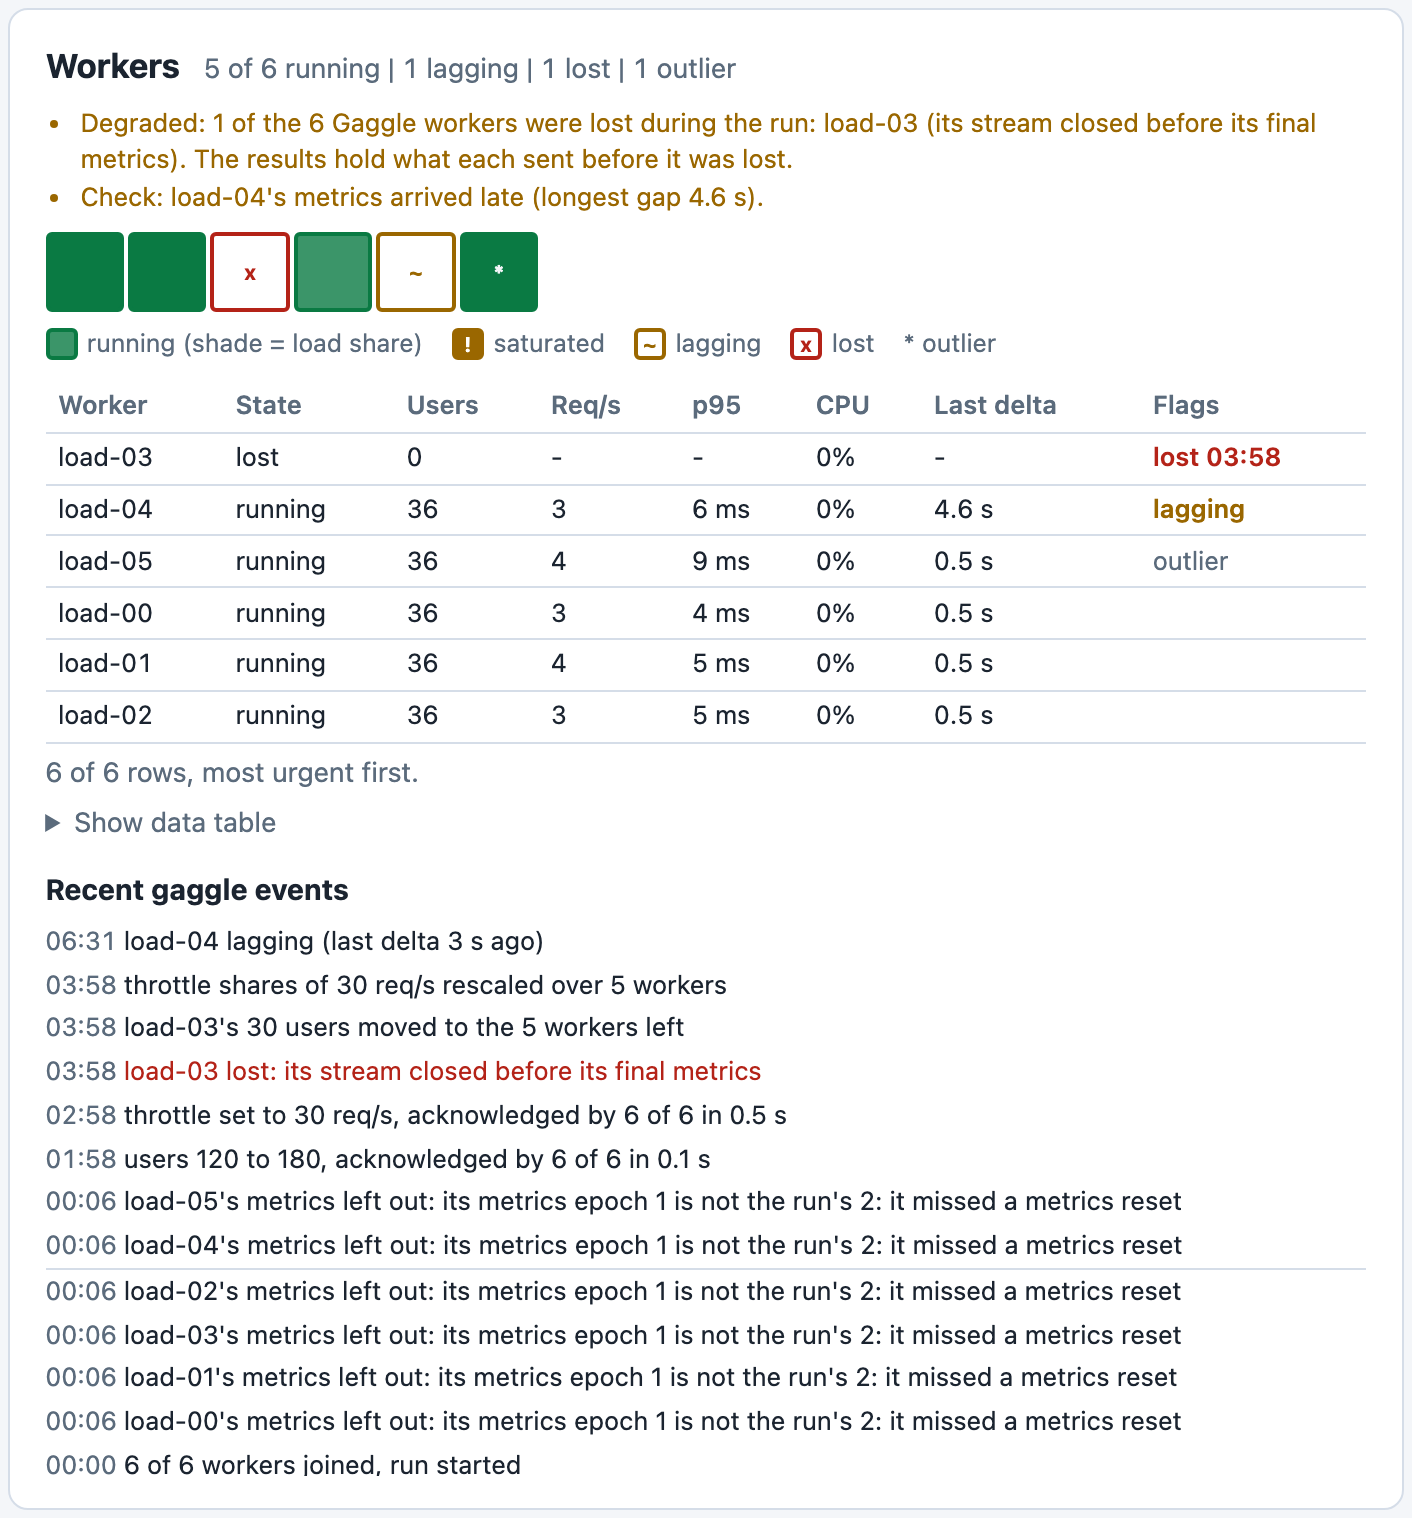
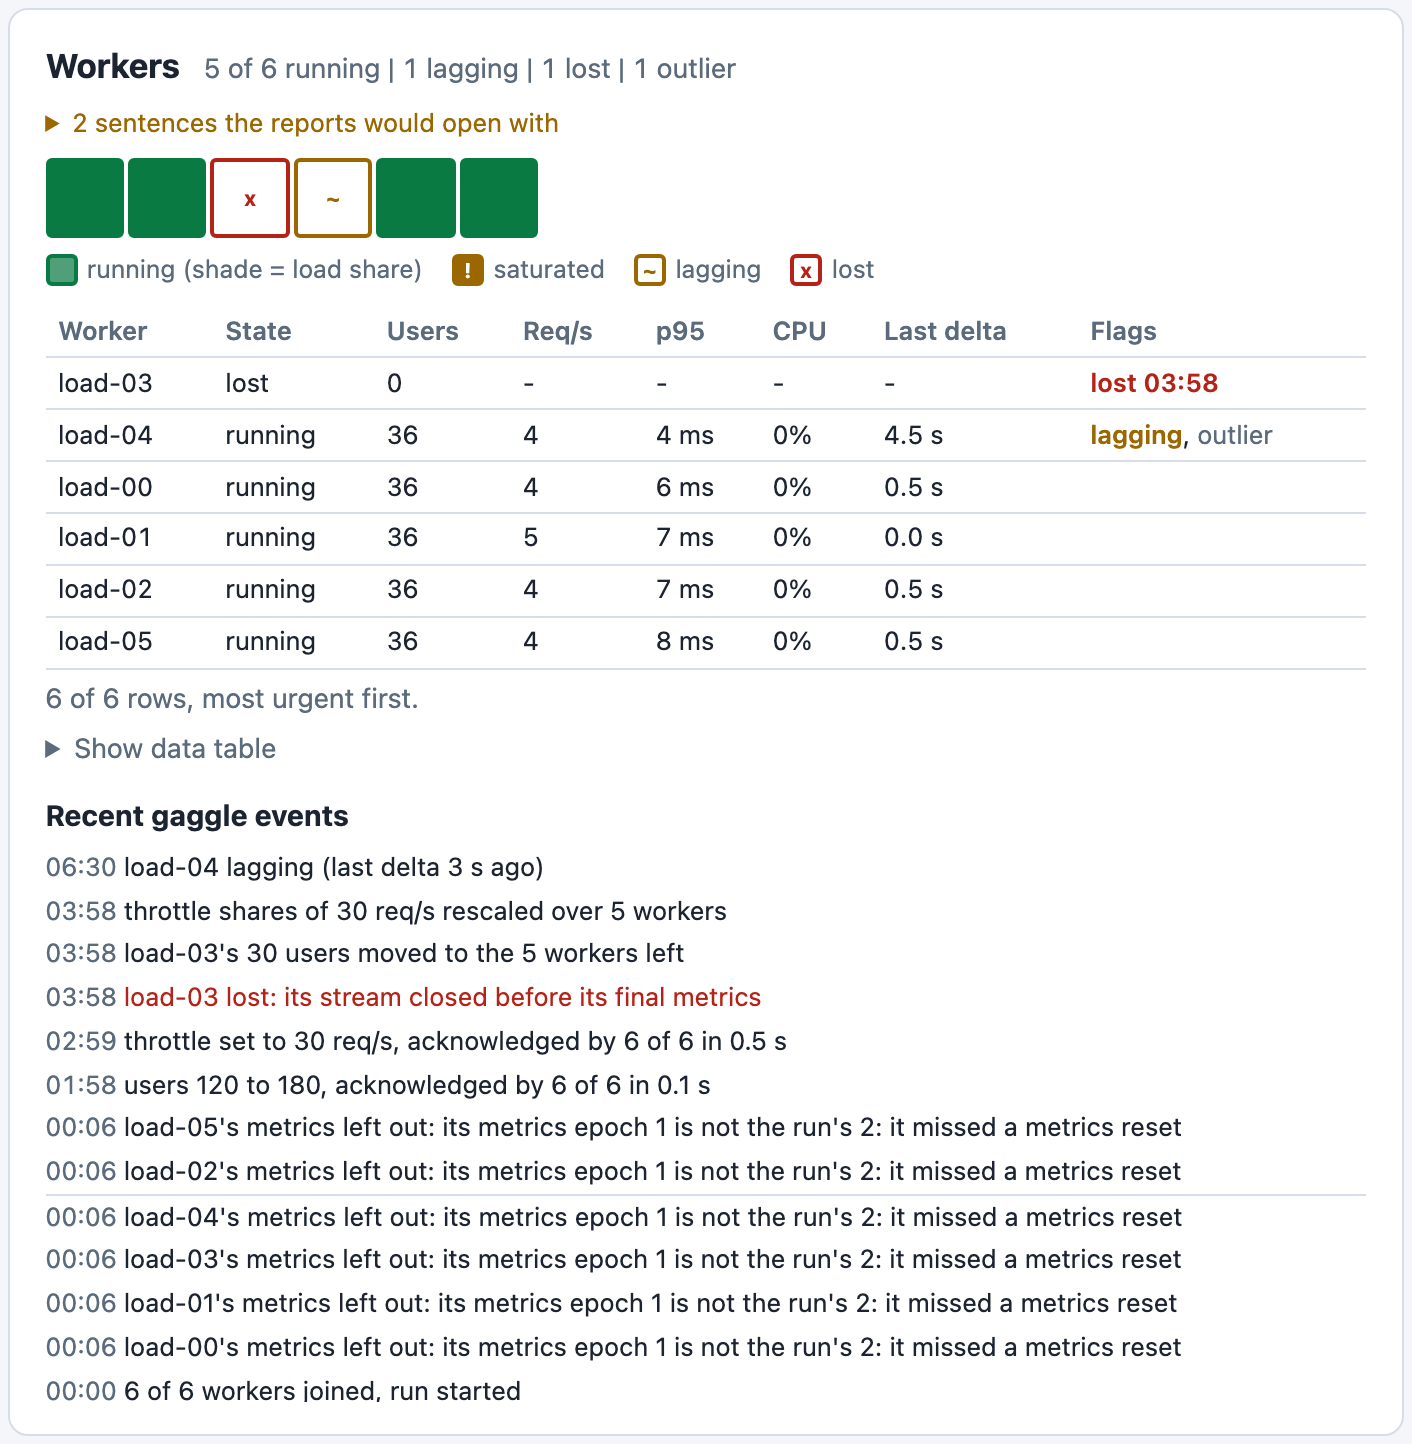
dashboard: a lost worker's event takes its second's marker label

Changed region(s): [[0.0312, 0.0312, 0.9348, 0.9661], [0.7479, 0.2181, 0.9348, 0.374]]

diff --git a/src/dashboard/static/snapshot.d.ts b/src/dashboard/static/snapshot.d.ts
@@ -104,8 +104,9 @@ seconds: Array<number>,
 kinds: Array<string>,
 /**
  * A few words for the chart's marker, `users 900` or `load-31 lost`,
- * for the newest event of each second within the series window, which
- * the chart draws; `null` for the rest, whose label would overlap it.
+ * for one event of each second within the series window, which the
+ * chart draws: a lost worker's, else the newest; `null` for the rest,
+ * whose label would overlap it.
  */
 labels: Array<string | null>,
 /**

diff --git a/src/gaggle/dashboard.rs b/src/gaggle/dashboard.rs
@@ -535,6 +535,21 @@ pub(crate) fn section(
         })
         .copied()
         .collect();
+    // One label a second, as labels in one second overlap: a lost worker's
+    // event, else the newest.
+    let mut chosen: BTreeMap<u64, usize> = BTreeMap::new();
+    for (at, event) in newest.iter().enumerate() {
+        let lost = event.kind == GaggleEventKind::WorkerLost;
+        match chosen.get(&event.second) {
+            None => {
+                chosen.insert(event.second, at);
+            }
+            Some(&held) if lost && newest[held].kind != GaggleEventKind::WorkerLost => {
+                chosen.insert(event.second, at);
+            }
+            Some(_) => {}
+        }
+    }
     let shown = GaggleEvents {
         seconds: newest.iter().map(|event| event.second).collect(),
         kinds: newest.iter().map(|event| kind_name(event.kind)).collect(),
@@ -542,9 +557,8 @@ pub(crate) fn section(
             .iter()
             .enumerate()
             .map(|(at, event)| {
-                // Newest first: only the first event of its second is labelled.
-                let first = at == 0 || newest[at - 1].second != event.second;
-                (first && event.second >= series.start_second).then(|| label(event))
+                (chosen.get(&event.second) == Some(&at) && event.second >= series.start_second)
+                    .then(|| label(event))
             })
             .collect(),
         texts: newest
@@ -916,6 +930,12 @@ mod tests {
         }
         health.set_second(250);
         health.lose(0, "connection reset", Instant::now());
+        // A newer event in the same second: the lost worker keeps the label.
+        health.event(
+            GaggleEventKind::ThrottleSharesRescaled,
+            None,
+            "throttle shares of 3,000 req/s rescaled over 47 workers".to_string(),
+        );
         let empty = series(Vec::new());
         let section = build(&health, &accumulator(), 1, &empty, None, Instant::now());
         let events = &section.events;
@@ -923,11 +943,16 @@ mod tests {
         assert_eq!(events.texts.len(), MAX_GAGGLE_EVENTS);
         assert!(section.events_truncated);
         assert_eq!(events.seconds[0], 250);
-        assert_eq!(events.kinds[0], "worker_lost");
-        assert_eq!(events.labels[0].as_deref(), Some("load-31 lost"));
-        assert_eq!(events.texts[0], "load-31 lost: connection reset");
-        assert_eq!(events.labels[1].as_deref(), Some("users 1,449"));
-        assert_eq!(events.kinds[1], "users_changed");
+        assert_eq!(events.kinds[0], "throttle_shares_rescaled");
+        assert_eq!(
+            events.labels[0], None,
+            "the lost worker's label wins its second"
+        );
+        assert_eq!(events.kinds[1], "worker_lost");
+        assert_eq!(events.labels[1].as_deref(), Some("load-31 lost"));
+        assert_eq!(events.texts[1], "load-31 lost: connection reset");
+        assert_eq!(events.labels[2].as_deref(), Some("users 1,449"));
+        assert_eq!(events.kinds[2], "users_changed");
         assert!(events.seconds.windows(2).all(|pair| pair[0] >= pair[1]));
         assert_eq!(
             section.summary.last_users_change,

diff --git a/src/metrics/dashboard_snapshot.rs b/src/metrics/dashboard_snapshot.rs
@@ -256,8 +256,9 @@ pub(crate) struct GaggleEvents {
     /// `throttle_shares_rescaled`, `users_rebalanced`, `stop` or `start`.
     pub kinds: Vec<String>,
     /// A few words for the chart's marker, `users 900` or `load-31 lost`,
-    /// for the newest event of each second within the series window, which
-    /// the chart draws; `null` for the rest, whose label would overlap it.
+    /// for one event of each second within the series window, which the
+    /// chart draws: a lost worker's, else the newest; `null` for the rest,
+    /// whose label would overlap it.
     pub labels: Vec<Option<String>>,
     /// The sentence the event log keeps.
     pub texts: Vec<String>,

diff --git a/src/docs/goose-book/src/controller/dashboard-reference.md b/src/docs/goose-book/src/controller/dashboard-reference.md
@@ -619,7 +619,7 @@ On a [Gaggle](../gaggle/overview.md) manager, the snapshot gains a `gaggle` sect
 | `workers_truncated` | `true` when `workers` leaves some out; `summary` and `grid` count every worker |
 | `grid` | Every worker in id order: `names`, `states` (0 joining, 1 ready, 2 running, 3 stopping, 4 finished, 5 users exited, 6 lost), `flags` (its most severe live flag but a loss: 0 none, 1 left out, 2 saturated, 3 lagging, 4 outlier, 5 refused or missing), `load` (its requests per second as a percent of the busiest worker's, 0 to 100), `users`, `cpu` (whole percent of its cores, while it runs), `rps` and `p95` over the last 10 seconds, each -1 when there is none, and `gap`, how far its requests per user per second are from the median of the running workers, in percent, when past the outlier threshold, otherwise 0 |
 | `by_worker` | The RPS chart's lines by worker: `workers`, the 8 busiest over the last 10 seconds, `rps`, each one's requests started in each second of the series window, and `others_workers`, how many the rest add up. The rest's line is `series.rps` less these |
-| `events` | What happened to the Gaggle, newest first, at most 200: `seconds`, `kinds` (the run record's event kinds), `labels` (a few words for the chart's marker, for the newest event of each second within the series window, `null` for the rest) and `texts` (the event's sentence) |
+| `events` | What happened to the Gaggle, newest first, at most 200: `seconds`, `kinds` (the run record's event kinds), `labels` (a few words for the chart's marker, for one event of each second within the series window, a lost worker's or else the newest, `null` for the rest) and `texts` (the event's sentence) |
 | `events_truncated` | `true` when older events are left out |
 | `previews` | How a change splits now, by the manager's own rules: `workers`, the running workers a change goes to, `users` and `throttle` (`null` without one), each as groups `{value, workers}`, largest first |
 
